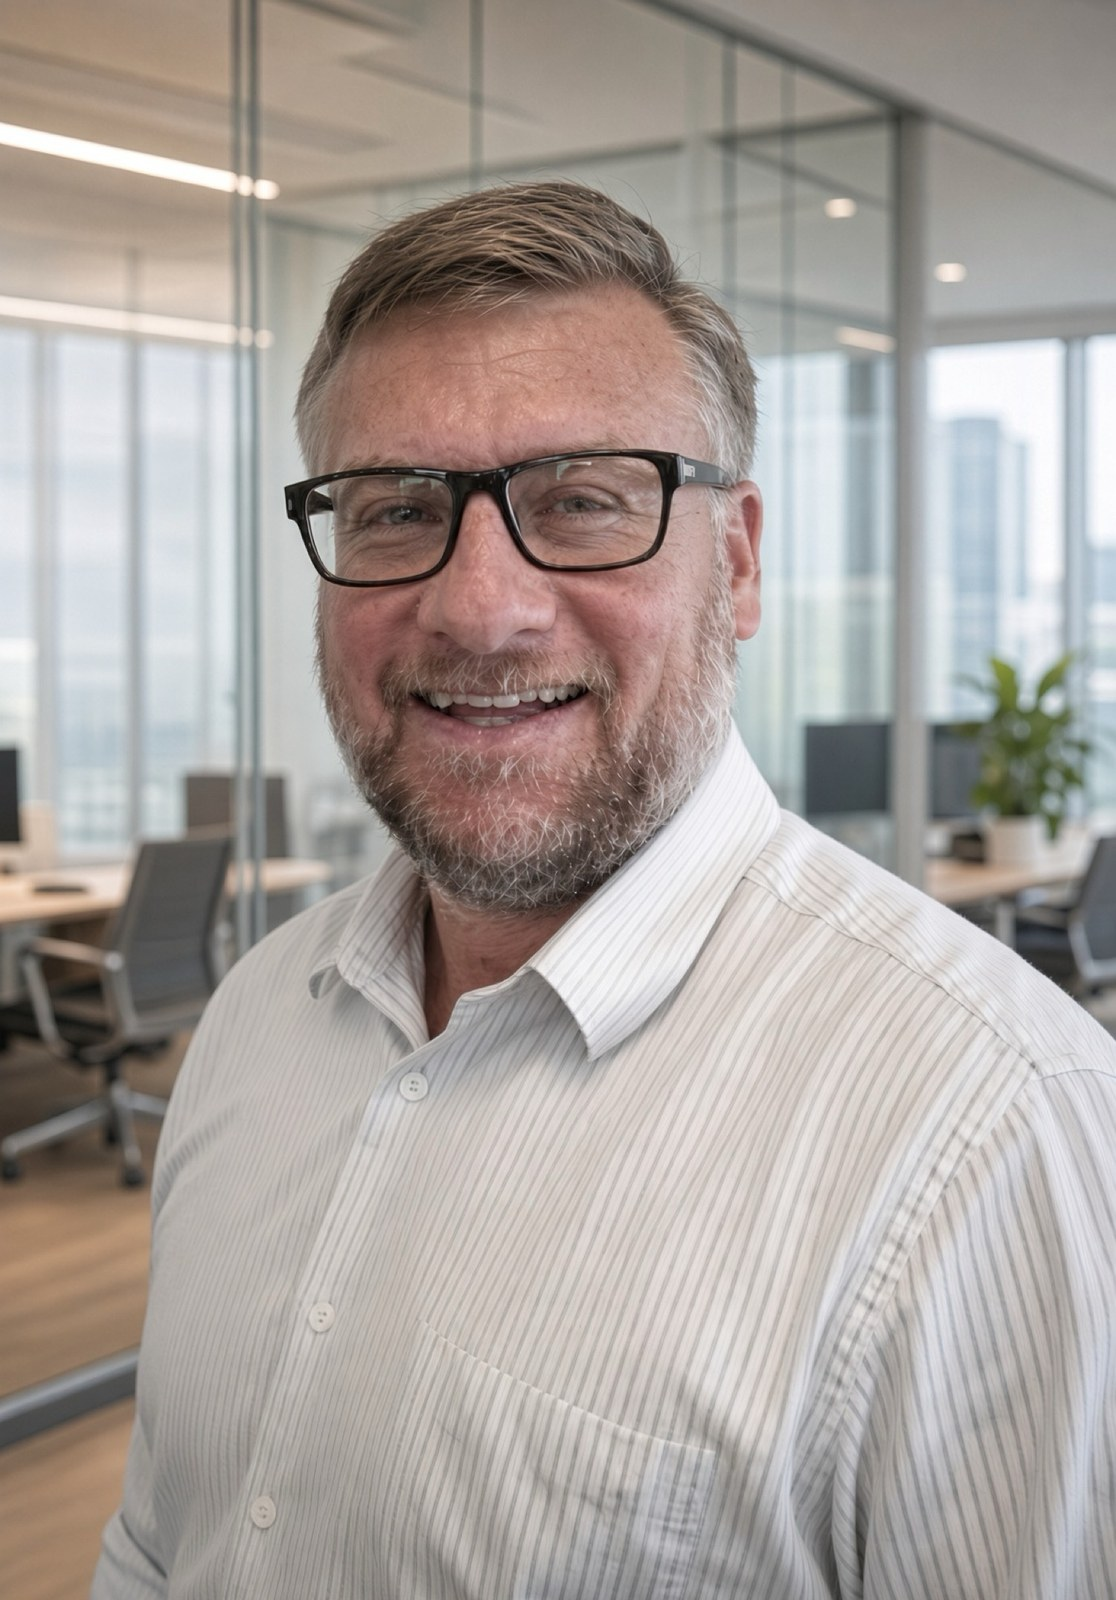
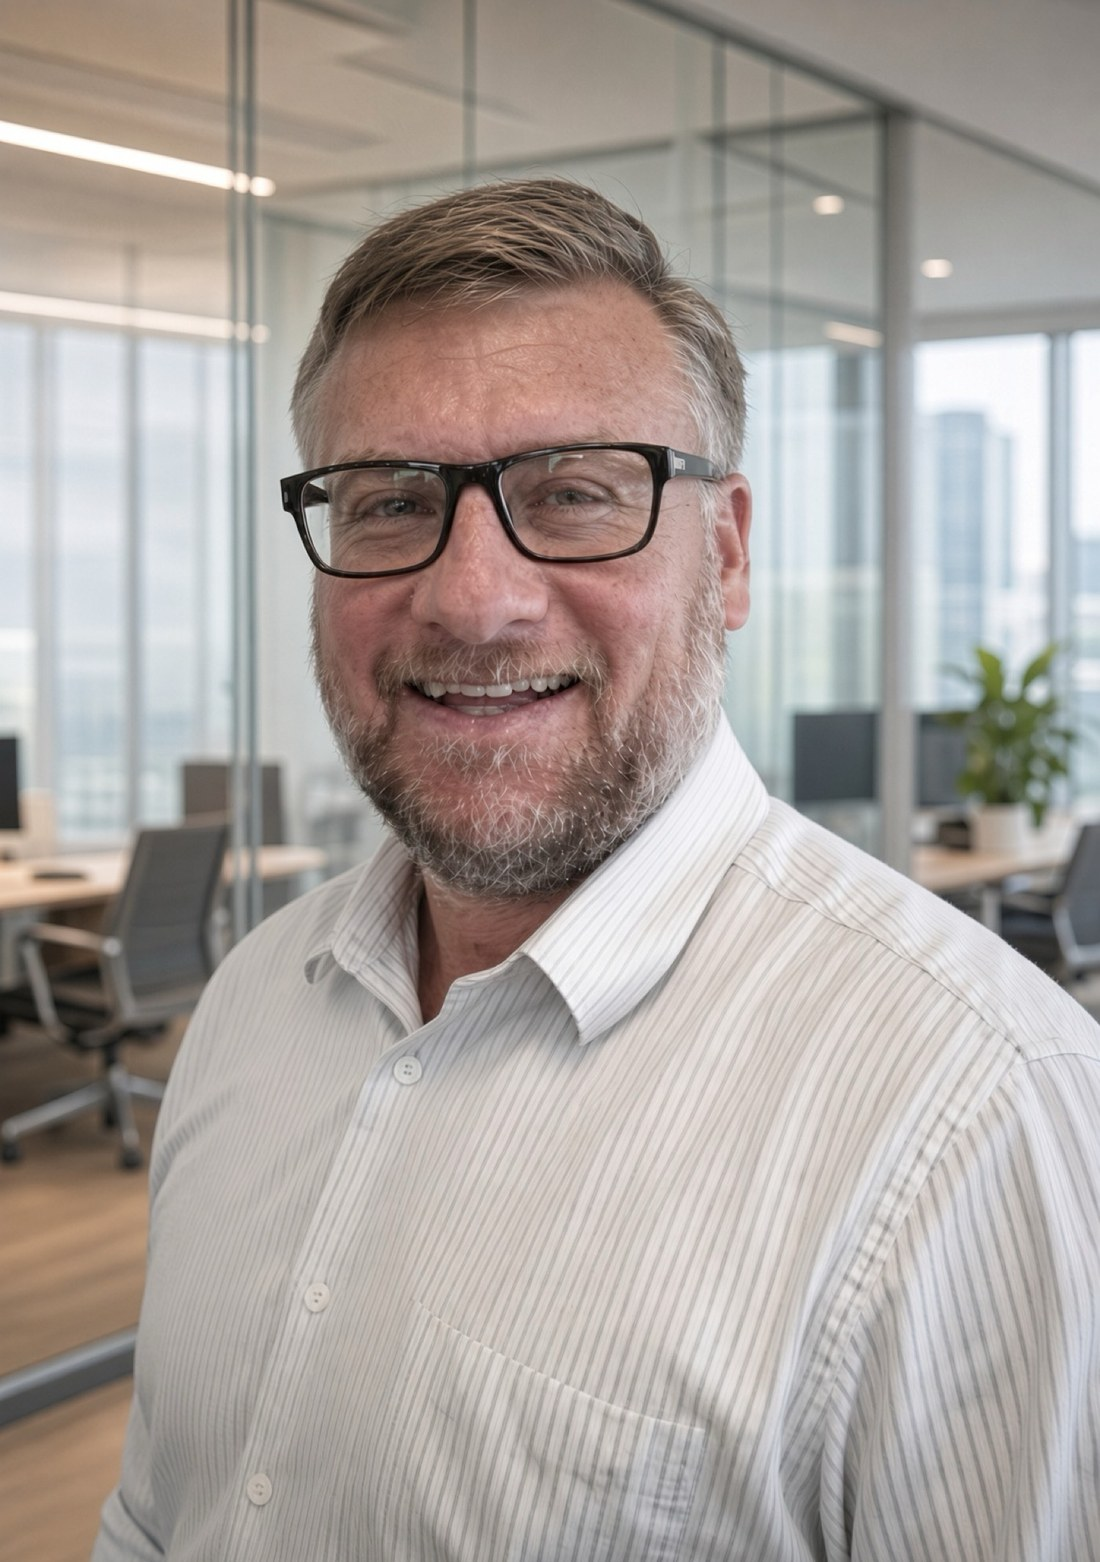
Update Greg Weir and Matthew Holdt portraits
Use the attached headshots, with the Grok watermark cropped off.

diff --git a/src/routes/index.tsx b/src/routes/index.tsx
@@ -152,7 +152,7 @@ function Home() {
               params={{ slug: p.slug }}
               className="overflow-hidden rounded-xl border border-line bg-surface"
             >
-              <img src={p.image} alt={p.name} className="aspect-3/4 w-full object-cover" />
+              <img src={p.image} alt={p.name} className="aspect-3/4 w-full object-cover object-top" />
               <div className="p-4">
                 <p className="font-display text-lg">{p.name}</p>
                 <p className="text-sm text-muted">{p.role.split(",")[0]}</p>
